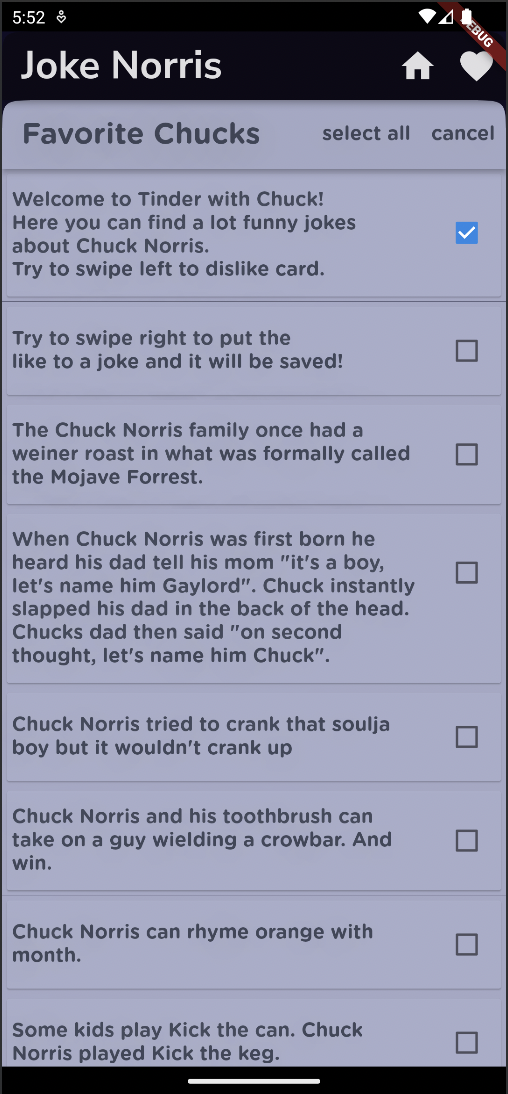
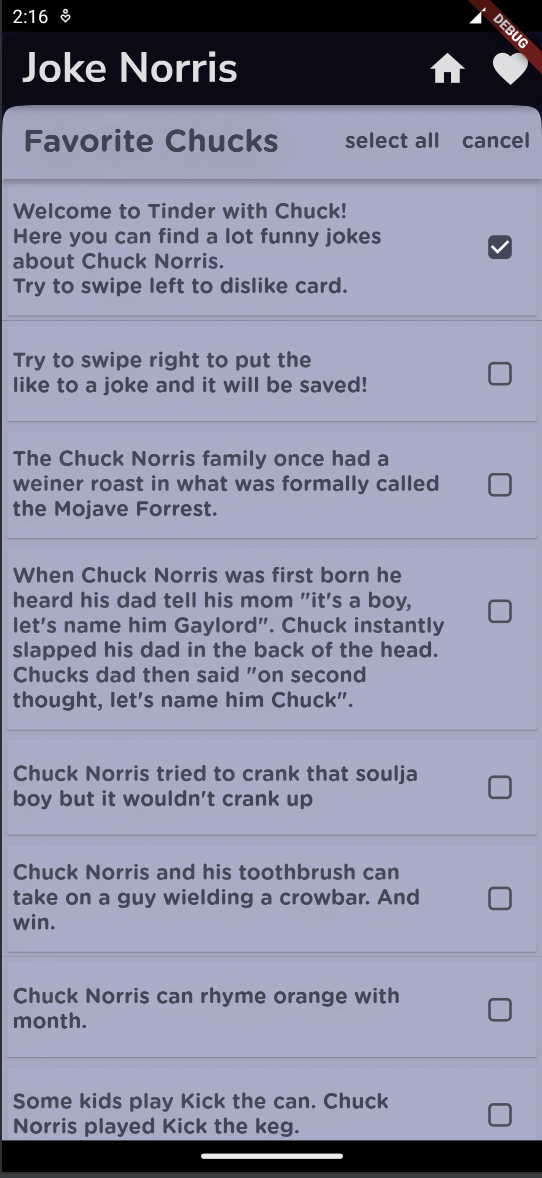
Design for CheckBox

diff --git a/lib/components/list_builder.dart b/lib/components/list_builder.dart
@@ -79,9 +79,12 @@ class _ListBuilderState extends State<ListBuilder> {
                         },
                         trailing: widget.isSelectionMode
                             ? Checkbox(
+                                shape: RoundedRectangleBorder(
+                                    borderRadius: BorderRadius.circular(4)),
                                 value: widget.selectedList[favoriteJokesIndex],
                                 onChanged: (bool? x) =>
                                     _toggle(favoriteJokesIndex),
+                                activeColor: Color(0xAB0E1523),
                               )
                             : const SizedBox.shrink(),
                         title: Text(
